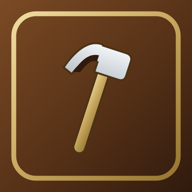
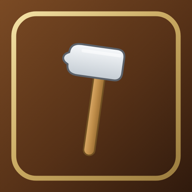
Icône charpenterie : marteau redessiné (tête pleine, lisible)

Changed region(s): [[0.3125, 0.2188, 0.6875, 0.8125]]

diff --git a/sw.js b/sw.js
@@ -2,7 +2,7 @@
    Au premier chargement, il met en cache tous les fichiers de l'app.
    Ensuite, l'app se lance sans réseau, exactement comme une app native. */
 
-const CACHE = "charpenteriequest-v2";
+const CACHE = "charpenteriequest-v3";
 const ASSETS = [
   "index.html",
   "app.js",
